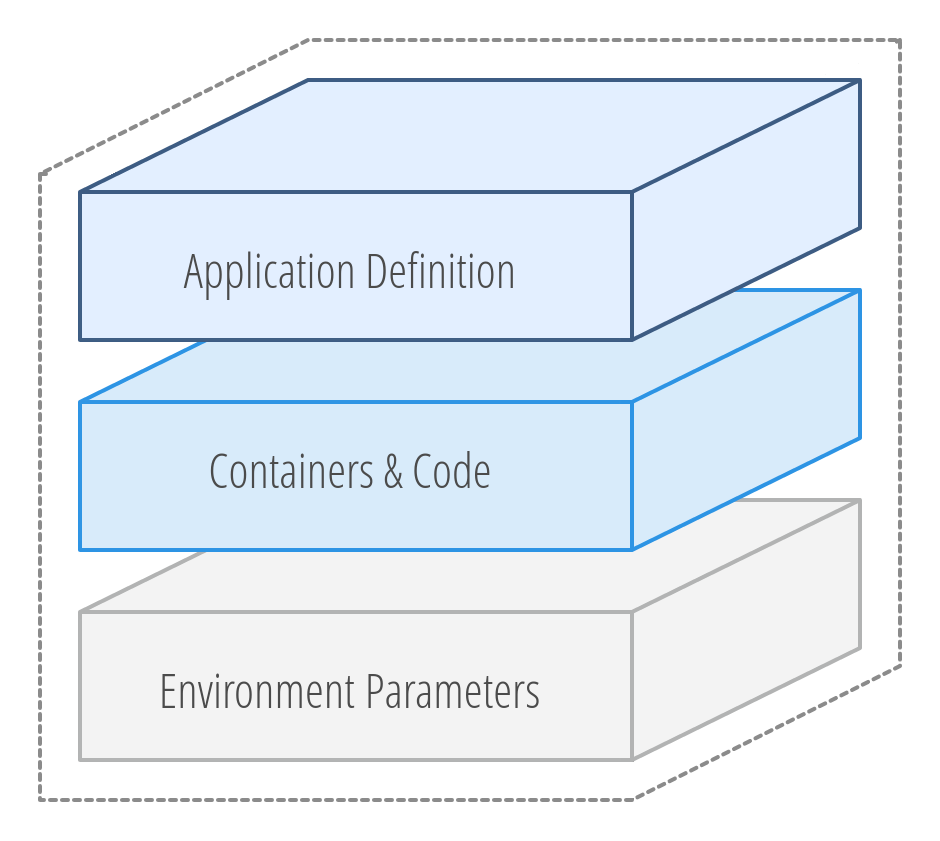
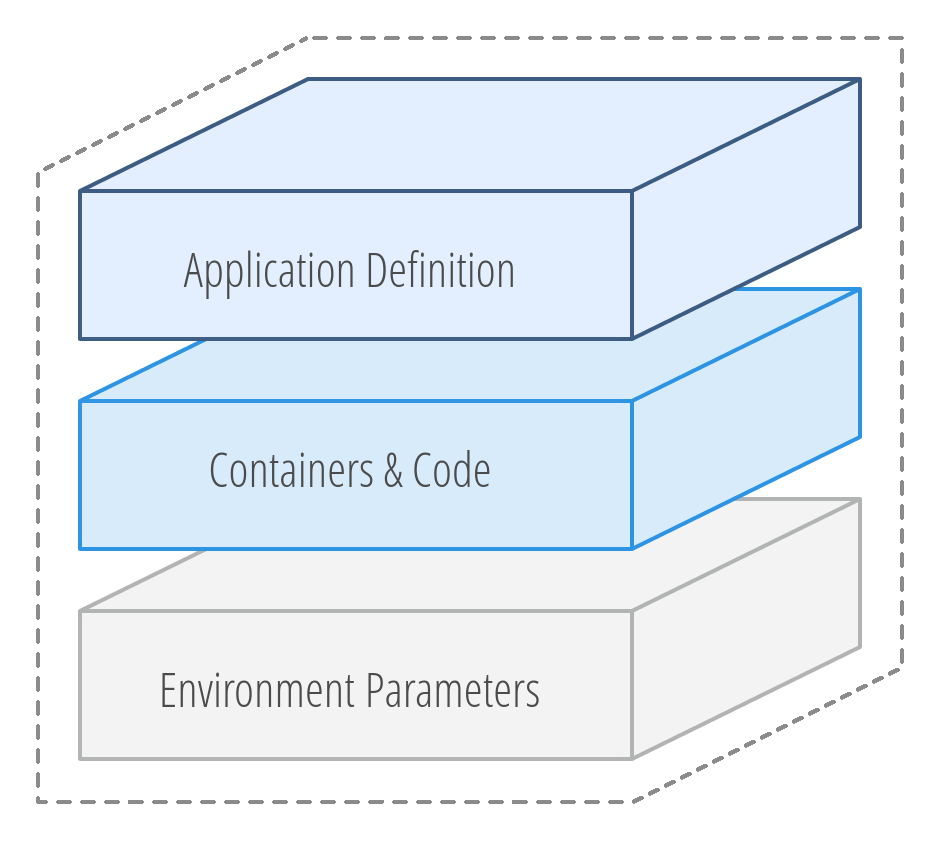
Remove image's white background

diff --git a/README.md b/README.md
@@ -12,8 +12,8 @@ applications and coupled services as a single, immutable object.
 Making complex multi-service FPGA applications as easy to build, share and run
 as single containers, InAccel Docker helps organizations improve collaboration
 across development teams, drives more transparency and consistency in
-application development and simplify the tracking and versioning of distributed
-FPGA applications.
+application development and simplifies the tracking and versioning of
+distributed FPGA applications.
 
 <p align="center">
 	<img src="inaccel-apps.png" width="470">
